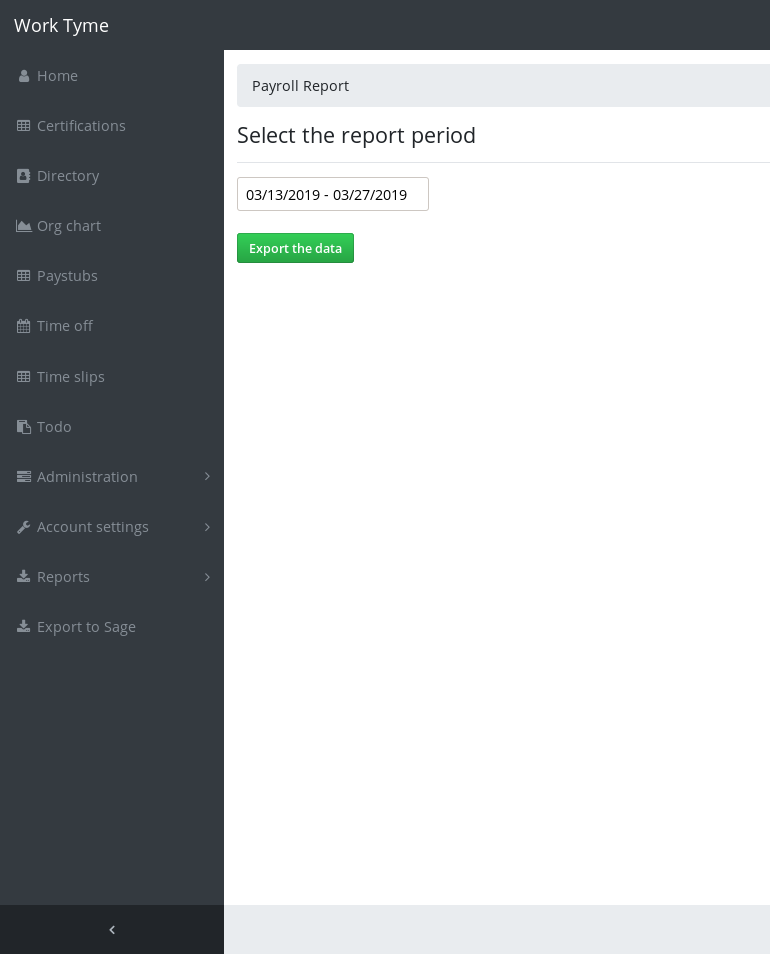
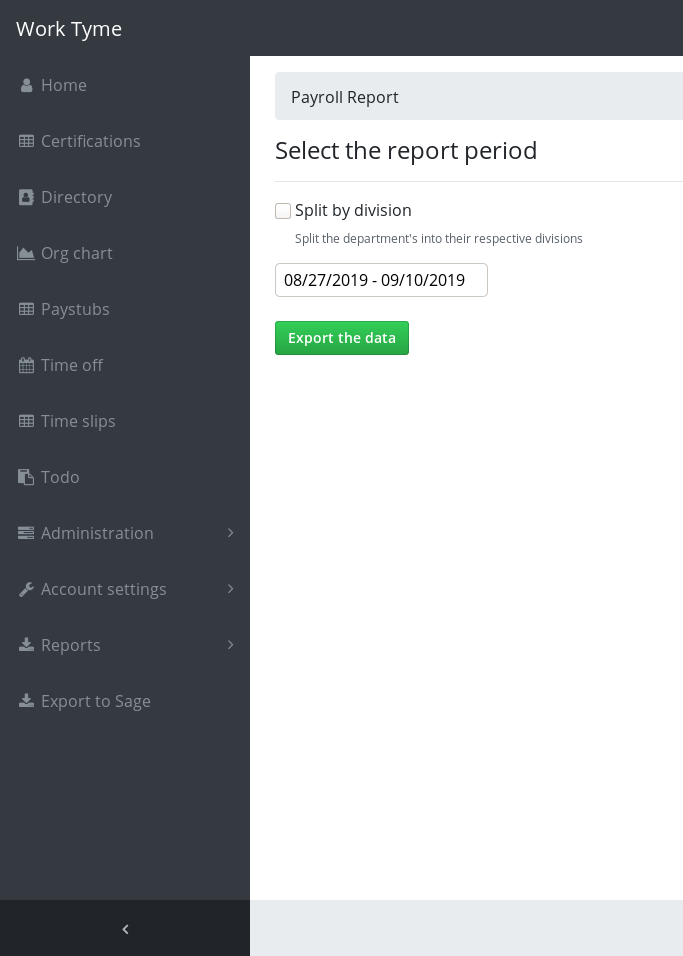
Added split by division option to payroll report

diff --git a/content/docs/payroll_report.md b/content/docs/payroll_report.md
@@ -7,13 +7,31 @@ type: docs
 
 To access the allocation report you must either be an admin or a manager (see [user types]({{< relref "/docs/user_types.md" >}}) for more information).
 
-Click on the menu item titled "Reports" and then on "Payroll". You will be brought to the Payroll report page.
+Click on the menu item titled "Reports" and then on "Payroll". You will be brought to the payroll report page.
 
 ![Payroll report](/docs/img/payroll_report_page.png)
 
-Select the date range you would like the report to cover and then click the button titled "Export the data". You will be prompted to download a XLSX containing your report.
+Select whether you would like to have the report split the time into divisions, select the date range you would like the report to cover and then click the button titled "Export the data". You will be prompted to download a XLSX containing your report.
 
 _**Note: for the payroll report to work properly your date range must be a two week period starting on a Sunday and ending on a Saturday**_
+
+
+## Split by division
+
+If you selected the checkbox to split the report into divisions you will be provided a bi-weekly breakdown of total hours per employee for each day. It also divides the employees into their respective divisions.
+
+If you have set a value for employee cost in each of your employee's [advanced settings page]({{< relref "/docs/employees.md" >}}#edit-an-employee) column B will contain that value which will populate the rightmost columns.
+
+The split by division version of the report contains a subset of the columns you will find in the standard version of the payroll report.
+
+![Payroll report](/docs/img/payroll_report_split.png)
+
+If you are an admin your report will contain data encompassing the entire company. If you are a manager it will only contain data pertaining to your employees
+
+
+## Standard report
+
+If you did not select the checkbox to split the report into divisions you will be given the standard version of the payroll report.
 
 The payroll report provides a bi-weekly breakdown of total hours per employee for each day. It also divides the employees into their respective departments.
 
